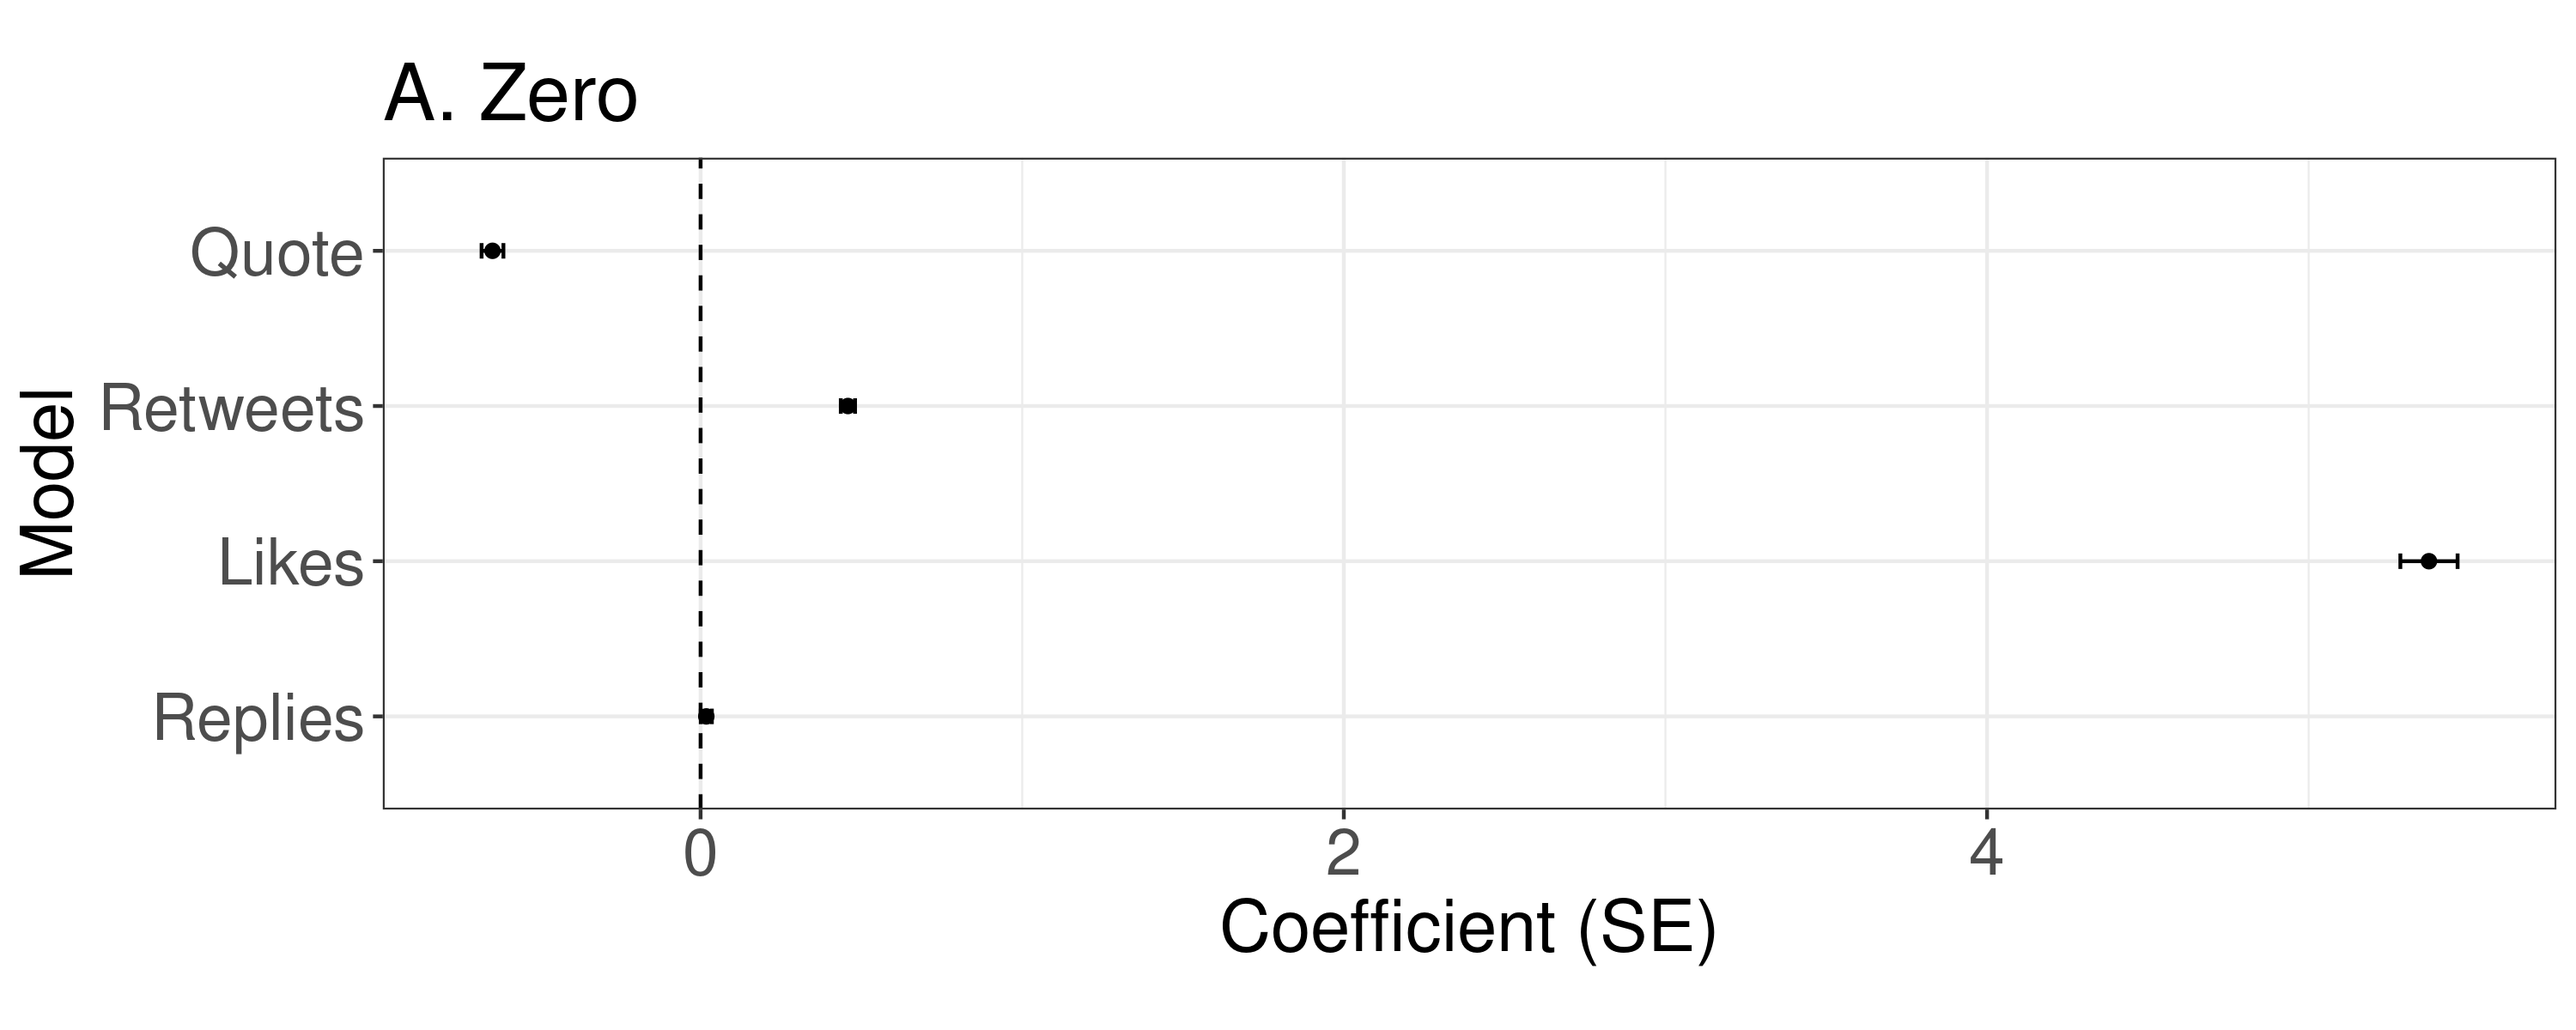
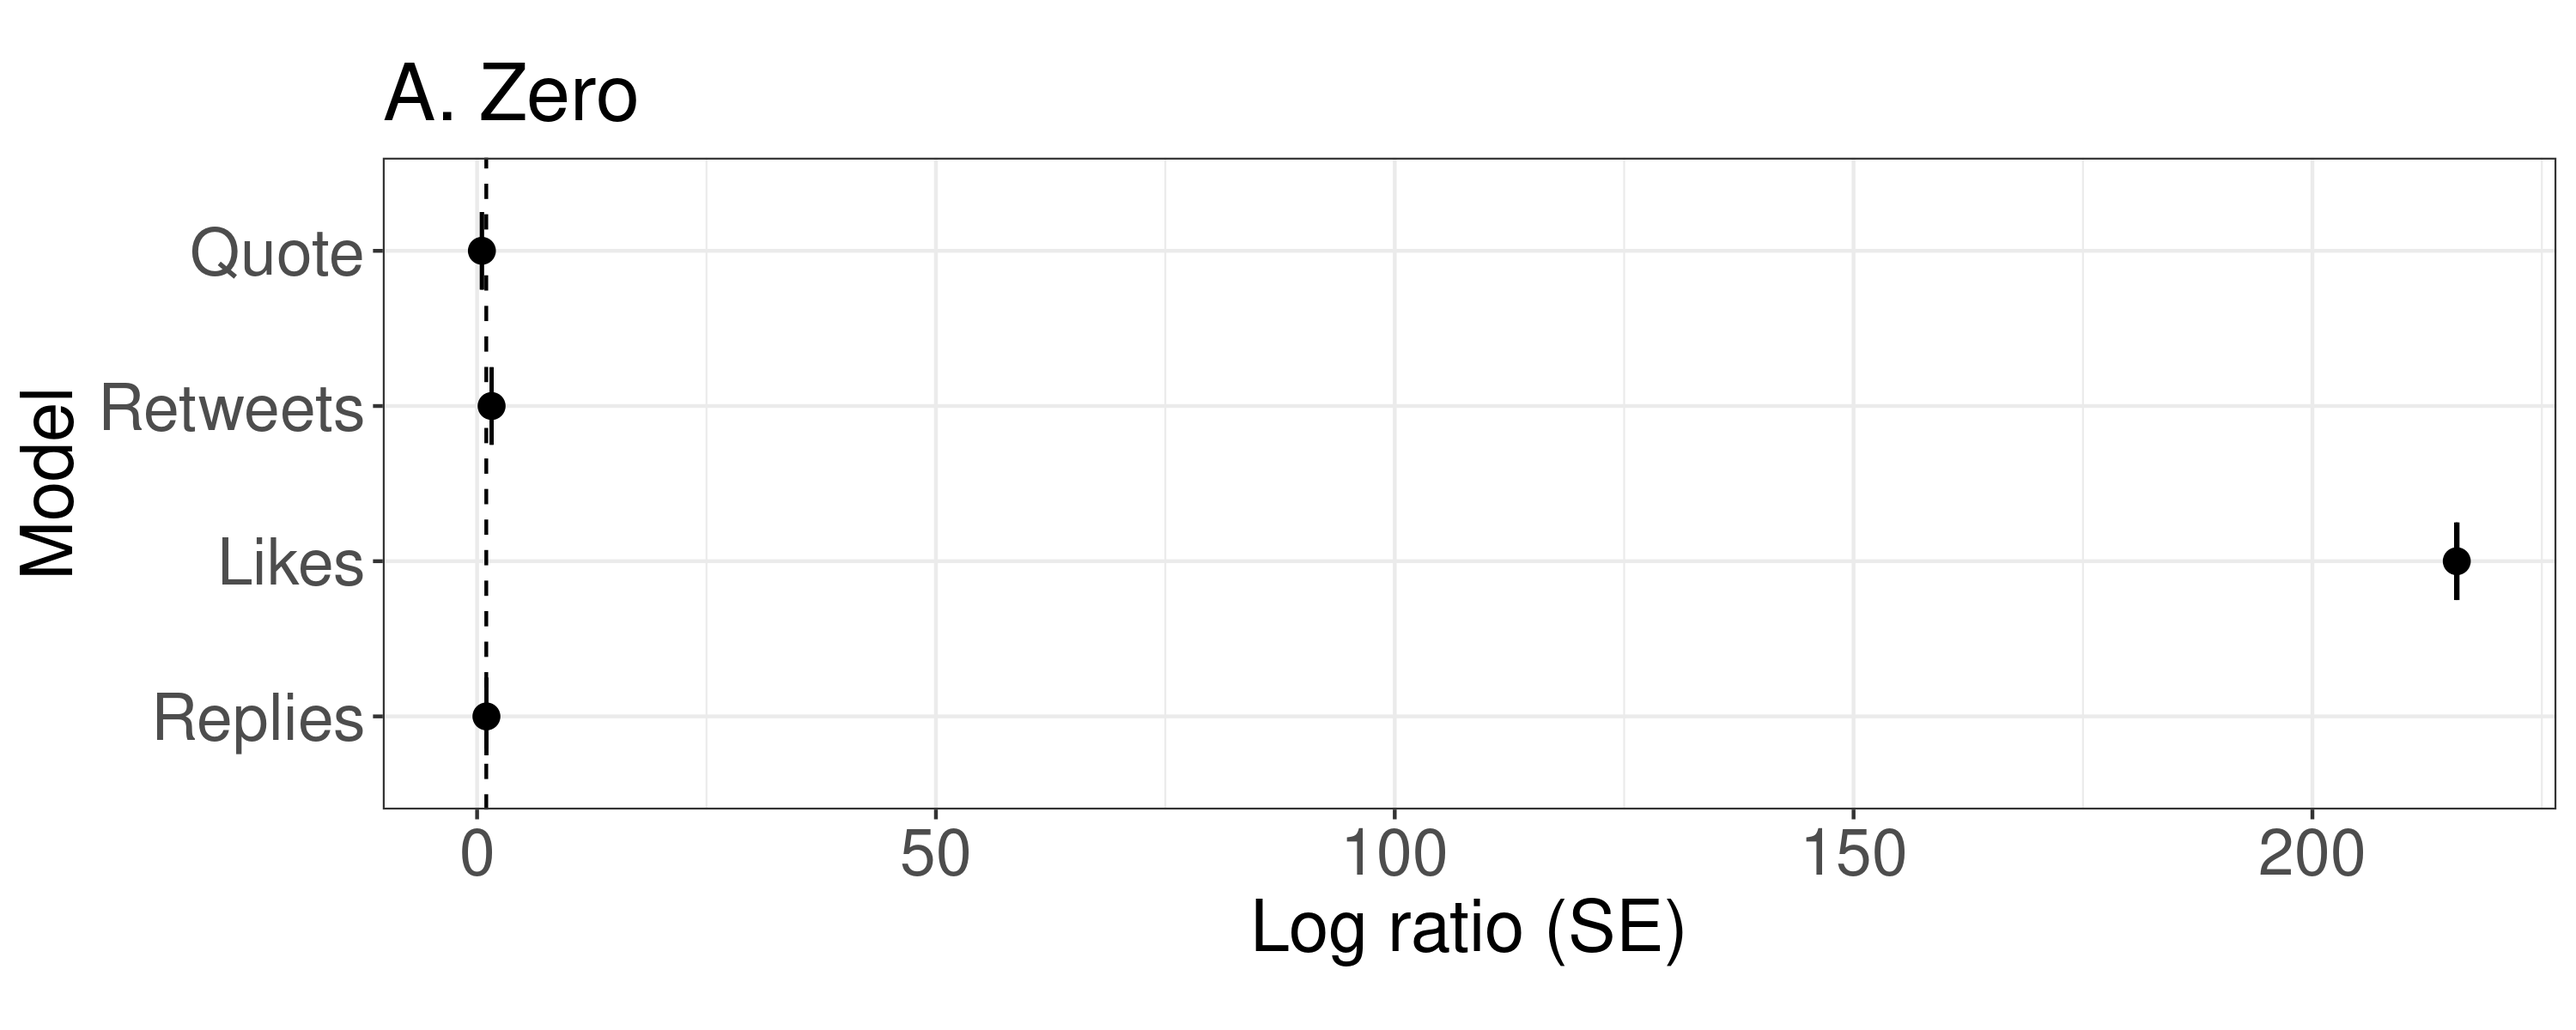
corrections

diff --git a/index.html b/index.html
@@ -457,7 +457,7 @@
 
 -   mixing up emotional reactions with prior state, stimuli, etc.,
 
--   ignoring the origin of emotions.</code></pre></li>
+-   ignoring the function of emotions.</code></pre></li>
 </ol>
 </div>
 </div>
@@ -645,9 +645,9 @@
 </div>
 </div>
 <aside class="notes">
-<p>Here, we can see the regression coefficients testing the effect of the treatment on the emotions in the discussoin</p>
+<p>Here, we can see the regression coefficients testing the effect of the treatment on the emotions in both the whole discussion aggregated and only the first response to the stimuli</p>
 <ul>
-<li>There are significant differences in most emotions, except for enthusiasm, however, we observe substantially more anger, more out-group references and less joy in response to untrustworthy information</li>
+<li>In both, there are significant differences in most emotions, except for enthusiasm, however, we observe substantially more anger, more out-group references and less joy in response to untrustworthy information</li>
 </ul>
 <style type="text/css">
         span.MJX_Assistive_MathML {
@@ -756,8 +756,8 @@
           display:block!important;
       }</style></aside>
 </section>
-<section id="do-sources-with-lower-trustworthiness-include-more-anger" class="slide level2">
-<h2>Do sources with lower trustworthiness include more anger?</h2>
+<section id="do-posts-with-lower-trustworthiness-include-more-anger" class="slide level2">
+<h2>Do posts with lower trustworthiness include more anger?</h2>
 
 <img data-src="images/initial_emo_coeff.png" width="600" class="r-stretch"><h3 id="rightarrow-lower-trustworthiness-anger"><span class="math inline">\(\rightarrow\)</span> Lower trustworthiness = anger</h3>
 <h3 id="rightarrow-higher-trustworthiness-joy"><span class="math inline">\(\rightarrow\)</span> Higher trustworthiness = joy</h3>
@@ -785,8 +785,7 @@
 </div><div class="column" style="width:30%;">
 <p><img data-src="images/reply_distributions.png" width="300"></p>
 </div><div class="fragment">
-<!-- -->
-<h3 id="rightarrow-untrustworthy-news-get-more-retweets-and-quotes"><span class="math inline">\(\rightarrow\)</span> Untrustworthy news get more retweets and quotes</h3>
+<p><span class="math inline">\(\rightarrow\)</span> Trustworthy sources get substantially more likes <span class="math inline">\(\rightarrow\)</span> Excluding excess zeroes, untrustworthy sources get more retweets and quotes</p>
 </div>
 </div>
 <div class="footer">
@@ -796,7 +795,8 @@
 <p>Lastly, we wanted to look at the associations between trustworthiness and engagement</p>
 <p>Here, we included the zero replies, which zero-inflated the distribution, which you can see in the top corner</p>
 <ul>
-<li>The results of our model show that a lower trustworthiness score is associated with more retweets and quote retweets</li>
+<li><p>The results of our logistic regression model show that trustworthy information generally gets more likes than untrustworthy information</p></li>
+<li><p>And the count model shows that, when excess zeroes are excluded, a lower trustworthiness score is associated with more retweets and quote retweets</p></li>
 </ul>
 <style type="text/css">
         span.MJX_Assistive_MathML {
